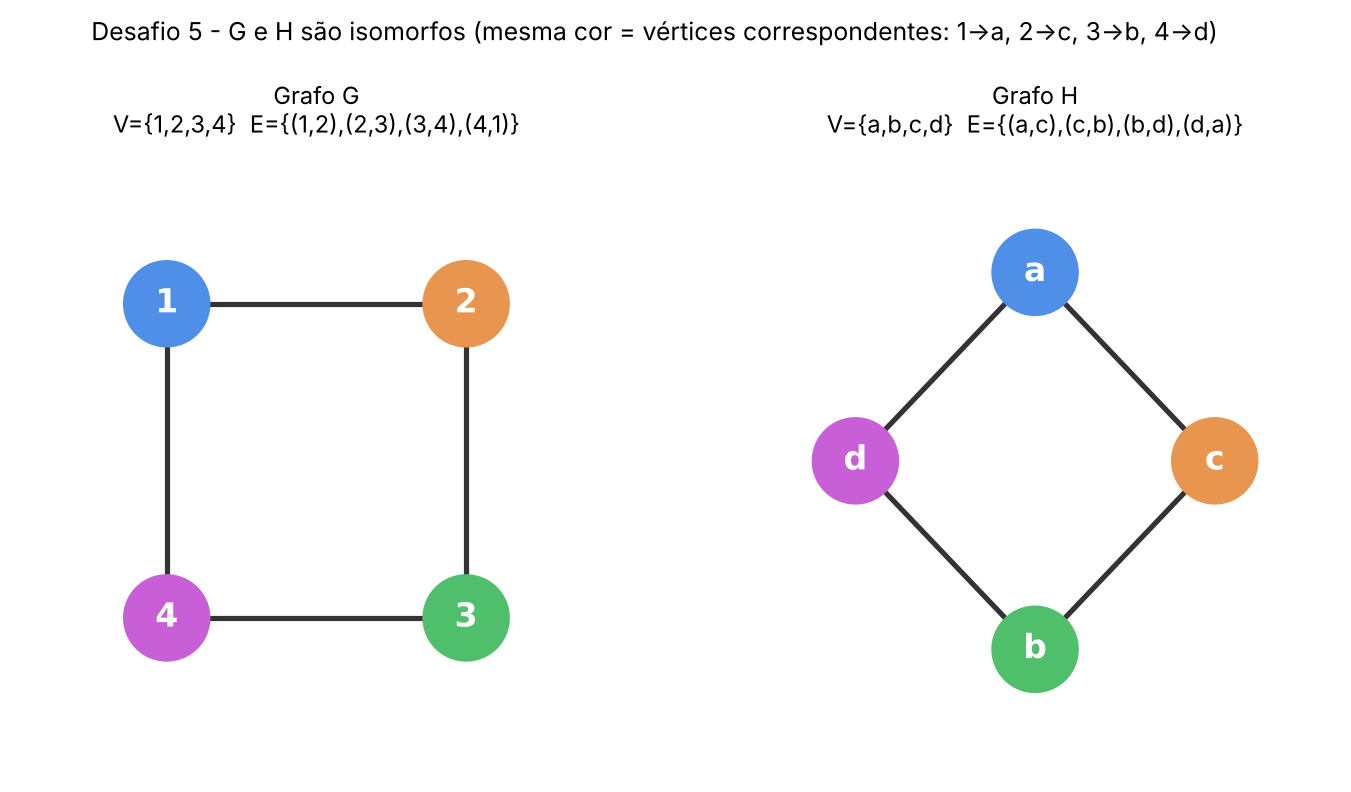
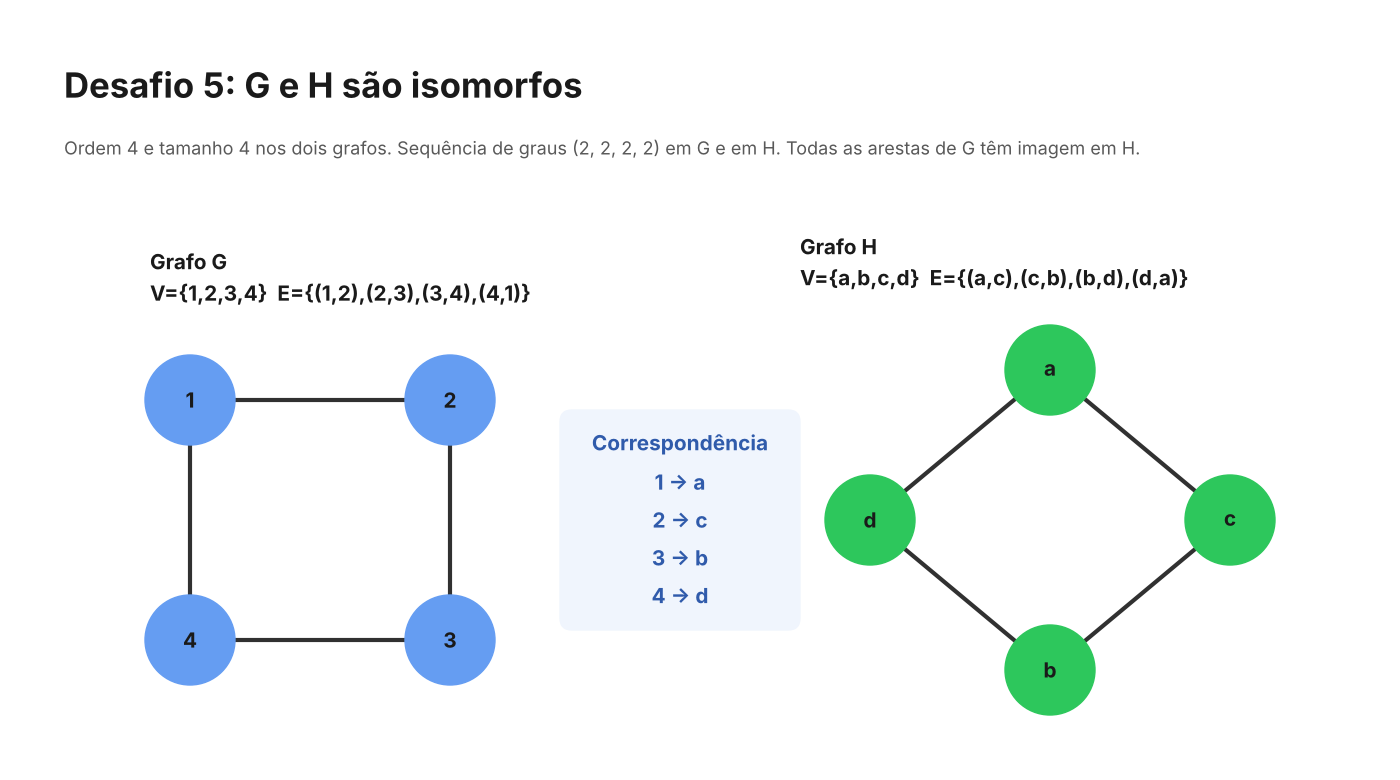
Insere os grafos feitos no Miro nas atividades 5 e 7

diff --git a/grafos/gerar_grafos_desafios.py b/grafos/gerar_grafos_desafios.py
@@ -2,89 +2,133 @@
 """
 Desafios 5 e 7 - Grafos (Unidade III) - Estrutura de Dados II.
 
-Gera as imagens e confere os resultados com Python/NetworkX
-(plataforma prevista no material: "Google Colab com Python e NetworkX").
+Os grafos foram construídos no Miro (quadro "Grafos - Desafios 5 e 7 (ED II)",
+https://miro.com/app/board/uXjVEbl3LCk=/). Como o Miro não exporta PNG por
+automação, este script redesenha os mesmos quadros (mesmas posições, cores e
+textos) em arquivos PNG para o GitHub e confere os resultados com NetworkX.
 
 Uso:  python gerar_grafos_desafios.py
 Saída: imagens/desafio5-isomorfismo.png e imagens/desafio7-sequencia-graus.png
 """
+import math
 import os
+
 import matplotlib
 matplotlib.use("Agg")
 import matplotlib.pyplot as plt
+from matplotlib.patches import Circle, FancyBboxPatch
 import networkx as nx
 
 PASTA = os.path.join(os.path.dirname(os.path.abspath(__file__)), "imagens")
 os.makedirs(PASTA, exist_ok=True)
 
-# ---------------------------------------------------------------- Desafio 5
+AZUL, AZUL_CLARO, VERDE = "#659df2", "#c6dcff", "#2dc75c"
+TINTA, CORPO, LINHA, PAINEL, PAINEL_TXT = "#1a1a1a", "#595959", "#313131", "#f0f5fd", "#305bab"
+
+# ----------------------------------------------------------------- conferência
 G = nx.Graph([(1, 2), (2, 3), (3, 4), (4, 1)])
 H = nx.Graph([("a", "c"), ("c", "b"), ("b", "d"), ("d", "a")])
-mapa = {1: "a", 2: "c", 3: "b", 4: "d"}          # G -> H
-
-print("Desafio 5")
-print("  ordem  G, H:", G.number_of_nodes(), H.number_of_nodes())
-print("  tamanho G, H:", G.number_of_edges(), H.number_of_edges())
-print("  graus G:", sorted(dict(G.degree()).values()),
-      "| graus H:", sorted(dict(H.degree()).values()))
-for u, v in G.edges():
-    ok = H.has_edge(mapa[u], mapa[v])
-    print(f"  ({u},{v}) -> ({mapa[u]},{mapa[v]}) em H? {ok}")
-    assert ok
+mapa = {1: "a", 2: "c", 3: "b", 4: "d"}
+assert all(H.has_edge(mapa[u], mapa[v]) for u, v in G.edges())
 assert nx.is_isomorphic(G, H)
-print("  isomorfos:", nx.is_isomorphic(G, H))
+assert sorted(dict(G.degree()).values()) == sorted(dict(H.degree()).values()) == [2, 2, 2, 2]
 
-cores = {1: "#4F8FE8", 2: "#E8954F", 3: "#4FBF6B", 4: "#C85FD6"}
-quadrado = {1: (0, 1), 2: (1, 1), 3: (1, 0), 4: (0, 0)}
-# H desenhado de outra forma (losango) para mostrar que o desenho não importa
-losango = {"a": (0.5, 1.1), "c": (1.1, 0.5), "b": (0.5, -0.1), "d": (-0.1, 0.5)}
-inv = {v: k for k, v in mapa.items()}
-
-fig, ax = plt.subplots(1, 2, figsize=(10, 4.8))
-nx.draw(G, quadrado, ax=ax[0], with_labels=True, node_size=1300,
-        node_color=[cores[n] for n in G.nodes()], font_color="white",
-        font_weight="bold", font_size=14, width=2.2, edge_color="#333")
-ax[0].set_title("Grafo G\nV={1,2,3,4}  E={(1,2),(2,3),(3,4),(4,1)}", fontsize=10)
-nx.draw(H, losango, ax=ax[1], with_labels=True, node_size=1300,
-        node_color=[cores[inv[n]] for n in H.nodes()], font_color="white",
-        font_weight="bold", font_size=14, width=2.2, edge_color="#333")
-ax[1].set_title("Grafo H\nV={a,b,c,d}  E={(a,c),(c,b),(b,d),(d,a)}", fontsize=10)
-for a in ax:
-    a.set_xlim(-0.5, 1.5); a.set_ylim(-0.5, 1.5)
-fig.suptitle("Desafio 5 - G e H são isomorfos (mesma cor = vértices correspondentes: "
-             "1→a, 2→c, 3→b, 4→d)", fontsize=10.5, y=1.04)
-fig.savefig(os.path.join(PASTA, "desafio5-isomorfismo.png"), dpi=170,
-            bbox_inches="tight")
-plt.close(fig)
-
-# ---------------------------------------------------------------- Desafio 7
-arestas = [("A", "B"), ("A", "C"), ("A", "D"), ("A", "E"), ("A", "F"), ("A", "G"),
-           ("B", "C"), ("B", "D"), ("B", "E"), ("C", "D"), ("C", "H"), ("E", "F")]
-S = nx.Graph(arestas)
+ARESTAS7 = [("A", "B"), ("A", "C"), ("A", "D"), ("A", "E"), ("A", "F"), ("A", "G"),
+            ("B", "C"), ("B", "D"), ("B", "E"), ("C", "D"), ("C", "H"), ("E", "F")]
+S = nx.Graph(ARESTAS7)
 graus = dict(sorted(S.degree()))
-seq = sorted(graus.values())
+assert sorted(graus.values()) == [1, 1, 2, 3, 3, 4, 4, 6]
+assert sum(graus.values()) == 2 * S.number_of_edges() == 24
+assert nx.number_of_selfloops(S) == 0
 
-print("\nDesafio 7")
-print("  graus:", graus)
-print("  sequência:", tuple(seq))
-print("  soma dos graus:", sum(seq), "| arestas:", S.number_of_edges(),
-      "| 2x arestas:", 2 * S.number_of_edges())
-assert seq == [1, 1, 2, 3, 3, 4, 4, 6]
-assert sum(seq) == 2 * S.number_of_edges()
-assert nx.number_of_selfloops(S) == 0          # grafo simples: sem laços
-# (nx.Graph já impede arestas paralelas)
 
-ordem = ["A", "G", "F", "E", "B", "C", "H", "D"]
-pos = nx.circular_layout(ordem)
-fig, ax = plt.subplots(figsize=(6.4, 6))
-nx.draw_networkx_edges(S, pos, ax=ax, width=2.2, edge_color="#475569")
-nx.draw_networkx_nodes(S, pos, ax=ax, node_size=1700, node_color="#4F8FE8")
-nx.draw_networkx_labels(S, pos, ax=ax, font_color="white", font_weight="bold",
-                        labels={v: f"{v}\ngrau {graus[v]}" for v in S}, font_size=9)
-ax.set_title("Desafio 7 - grafo simples com sequência de graus (1, 1, 2, 3, 3, 4, 4, 6)",
-             fontsize=10)
-ax.margins(0.15); ax.axis("off")
-fig.savefig(os.path.join(PASTA, "desafio7-sequencia-graus.png"), dpi=170,
-            bbox_inches="tight")
-plt.close(fig)
-print("\nImagens salvas em", PASTA)
+# ----------------------------------------------------------------- desenho
+def quadro(largura, altura):
+    fig = plt.figure(figsize=(largura / 100, altura / 100), dpi=100)
+    ax = fig.add_axes([0, 0, 1, 1])
+    ax.set_xlim(0, largura)
+    ax.set_ylim(altura, 0)           # y para baixo, como no Miro
+    ax.axis("off")
+    return fig, ax
+
+
+def aresta(ax, p, q, r):
+    (x1, y1), (x2, y2) = p, q
+    d = math.hypot(x2 - x1, y2 - y1)
+    ux, uy = (x2 - x1) / d, (y2 - y1) / d
+    ax.plot([x1 + ux * r, x2 - ux * r], [y1 + uy * r, y2 - uy * r],
+            color=LINHA, lw=3, solid_capstyle="round", zorder=1)
+
+
+def vertice(ax, pos, r, cor, rotulo, fs):
+    ax.add_patch(Circle(pos, r, color=cor, zorder=2))
+    ax.text(*pos, rotulo, ha="center", va="center", fontsize=fs,
+            fontweight="bold", color=TINTA, zorder=3, linespacing=1.3)
+
+
+def painel(ax, x, y, w, h, texto, fs=15, topo=False):
+    ax.add_patch(FancyBboxPatch((x, y), w, h, boxstyle="round,pad=0,rounding_size=12",
+                                color=PAINEL, zorder=1))
+    if topo:
+        ax.text(x + 24, y + 24, texto, ha="left", va="top", fontsize=fs,
+                color=PAINEL_TXT, linespacing=1.55)
+    else:
+        ax.text(x + w / 2, y + h / 2, texto, ha="center", va="center", fontsize=fs,
+                fontweight="bold", color=PAINEL_TXT, linespacing=1.5)
+
+
+def desafio5():
+    fig, ax = quadro(1400, 780)
+    ax.text(64, 64, "Desafio 5: G e H são isomorfos", fontsize=25, fontweight="bold",
+            color=TINTA, va="top")
+    ax.text(64, 137, "Ordem 4 e tamanho 4 nos dois grafos. Sequência de graus (2, 2, 2, 2) "
+            "em G e em H. Todas as arestas de G têm imagem em H.", fontsize=13,
+            color=CORPO, va="top")
+    ax.text(150, 245, "Grafo G\nV={1,2,3,4}  E={(1,2),(2,3),(3,4),(4,1)}", fontsize=15,
+            fontweight="bold", color=TINTA, va="top", linespacing=1.3)
+    ax.text(800, 230, "Grafo H\nV={a,b,c,d}  E={(a,c),(c,b),(b,d),(d,a)}", fontsize=15,
+            fontweight="bold", color=TINTA, va="top", linespacing=1.3)
+    pg = {1: (190, 400), 2: (450, 400), 3: (450, 640), 4: (190, 640)}
+    ph = {"a": (1050, 370), "c": (1230, 520), "b": (1050, 670), "d": (870, 520)}
+    for u, v in G.edges():
+        aresta(ax, pg[u], pg[v], 45)
+    for u, v in H.edges():
+        aresta(ax, ph[u], ph[v], 45)
+    for n, p in pg.items():
+        vertice(ax, p, 45, AZUL, str(n), 15)
+    for n, p in ph.items():
+        vertice(ax, p, 45, VERDE, n, 15)
+    painel(ax, 560, 410, 240, 220, "Correspondência\n1 → a\n2 → c\n3 → b\n4 → d")
+    fig.savefig(os.path.join(PASTA, "desafio5-isomorfismo.png"))
+    plt.close(fig)
+
+
+def desafio7():
+    fig, ax = quadro(1700, 960)
+    ax.text(64, 64, "Desafio 7: grafo simples com graus (1, 1, 2, 3, 3, 4, 4, 6)",
+            fontsize=25, fontweight="bold", color=TINTA, va="top")
+    ax.text(64, 137, "Oito vértices, 12 arestas, sem laços e sem arestas paralelas. "
+            "Em cada vértice aparece o seu grau.", fontsize=13, color=CORPO, va="top")
+    ordem = ["A", "G", "F", "E", "B", "C", "H", "D"]
+    pos = {}
+    for k, v in enumerate(ordem):
+        a = math.radians(-90 + 45 * k)
+        pos[v] = (round(520 + 300 * math.cos(a)), round(500 + 300 * math.sin(a)) + 60)
+    for u, v in ARESTAS7:
+        aresta(ax, pos[u], pos[v], 62)
+    for v, p in pos.items():
+        vertice(ax, p, 62, AZUL if graus[v] >= 4 else AZUL_CLARO,
+                f"{v}\ngrau {graus[v]}", 13)
+    texto = ("Vértices e graus\nA: 6 (B, C, D, E, F, G)\nB: 4 (A, C, D, E)\n"
+             "C: 4 (A, B, D, H)\nD: 3 (A, B, C)\nE: 3 (A, B, F)\nF: 2 (A, E)\n"
+             "G: 1 (A)\nH: 1 (C)\n\nSequência obtida: (1, 1, 2, 3, 3, 4, 4, 6)\n"
+             "Soma dos graus: 24\nArestas: 12, e 24 = 2 × 12")
+    painel(ax, 1020, 260, 580, 560, texto, fs=14, topo=True)
+    fig.savefig(os.path.join(PASTA, "desafio7-sequencia-graus.png"))
+    plt.close(fig)
+
+
+if __name__ == "__main__":
+    desafio5()
+    desafio7()
+    print("Conferências OK. Imagens salvas em", PASTA)

diff --git a/grafos/Atividades_Resolvidas_Unidade_III.md b/grafos/Atividades_Resolvidas_Unidade_III.md
@@ -217,6 +217,10 @@ O que fazer
 -   Graph Online;
 -   diagrams.net.
 
+![Atividade 5 - Grafos G e H no Miro](imagens/desafio5-isomorfismo.png)
+
+Grafos construídos no Miro: https://miro.com/app/board/uXjVEbl3LCk=/
+
 -------------------------------------------------------------------------------------
 5.1- 
 Ordem e Tamanho
@@ -325,7 +329,9 @@ indicada pela professora.
 
 ------------------------------------------------------------------------
 
-<img width="328" height="348" alt="graphviz" src="https://github.com/user-attachments/assets/57cb9ec5-9ef9-4cd7-9dbe-aebd23e0fa4a" /> 
+![Atividade 7 - Grafo com sequência de graus (1, 1, 2, 3, 3, 4, 4, 6) no Miro](imagens/desafio7-sequencia-graus.png)
+
+Grafos construídos no Miro: https://miro.com/app/board/uXjVEbl3LCk=/
 
 ------------------------------------------------------------------------
 7.2-
